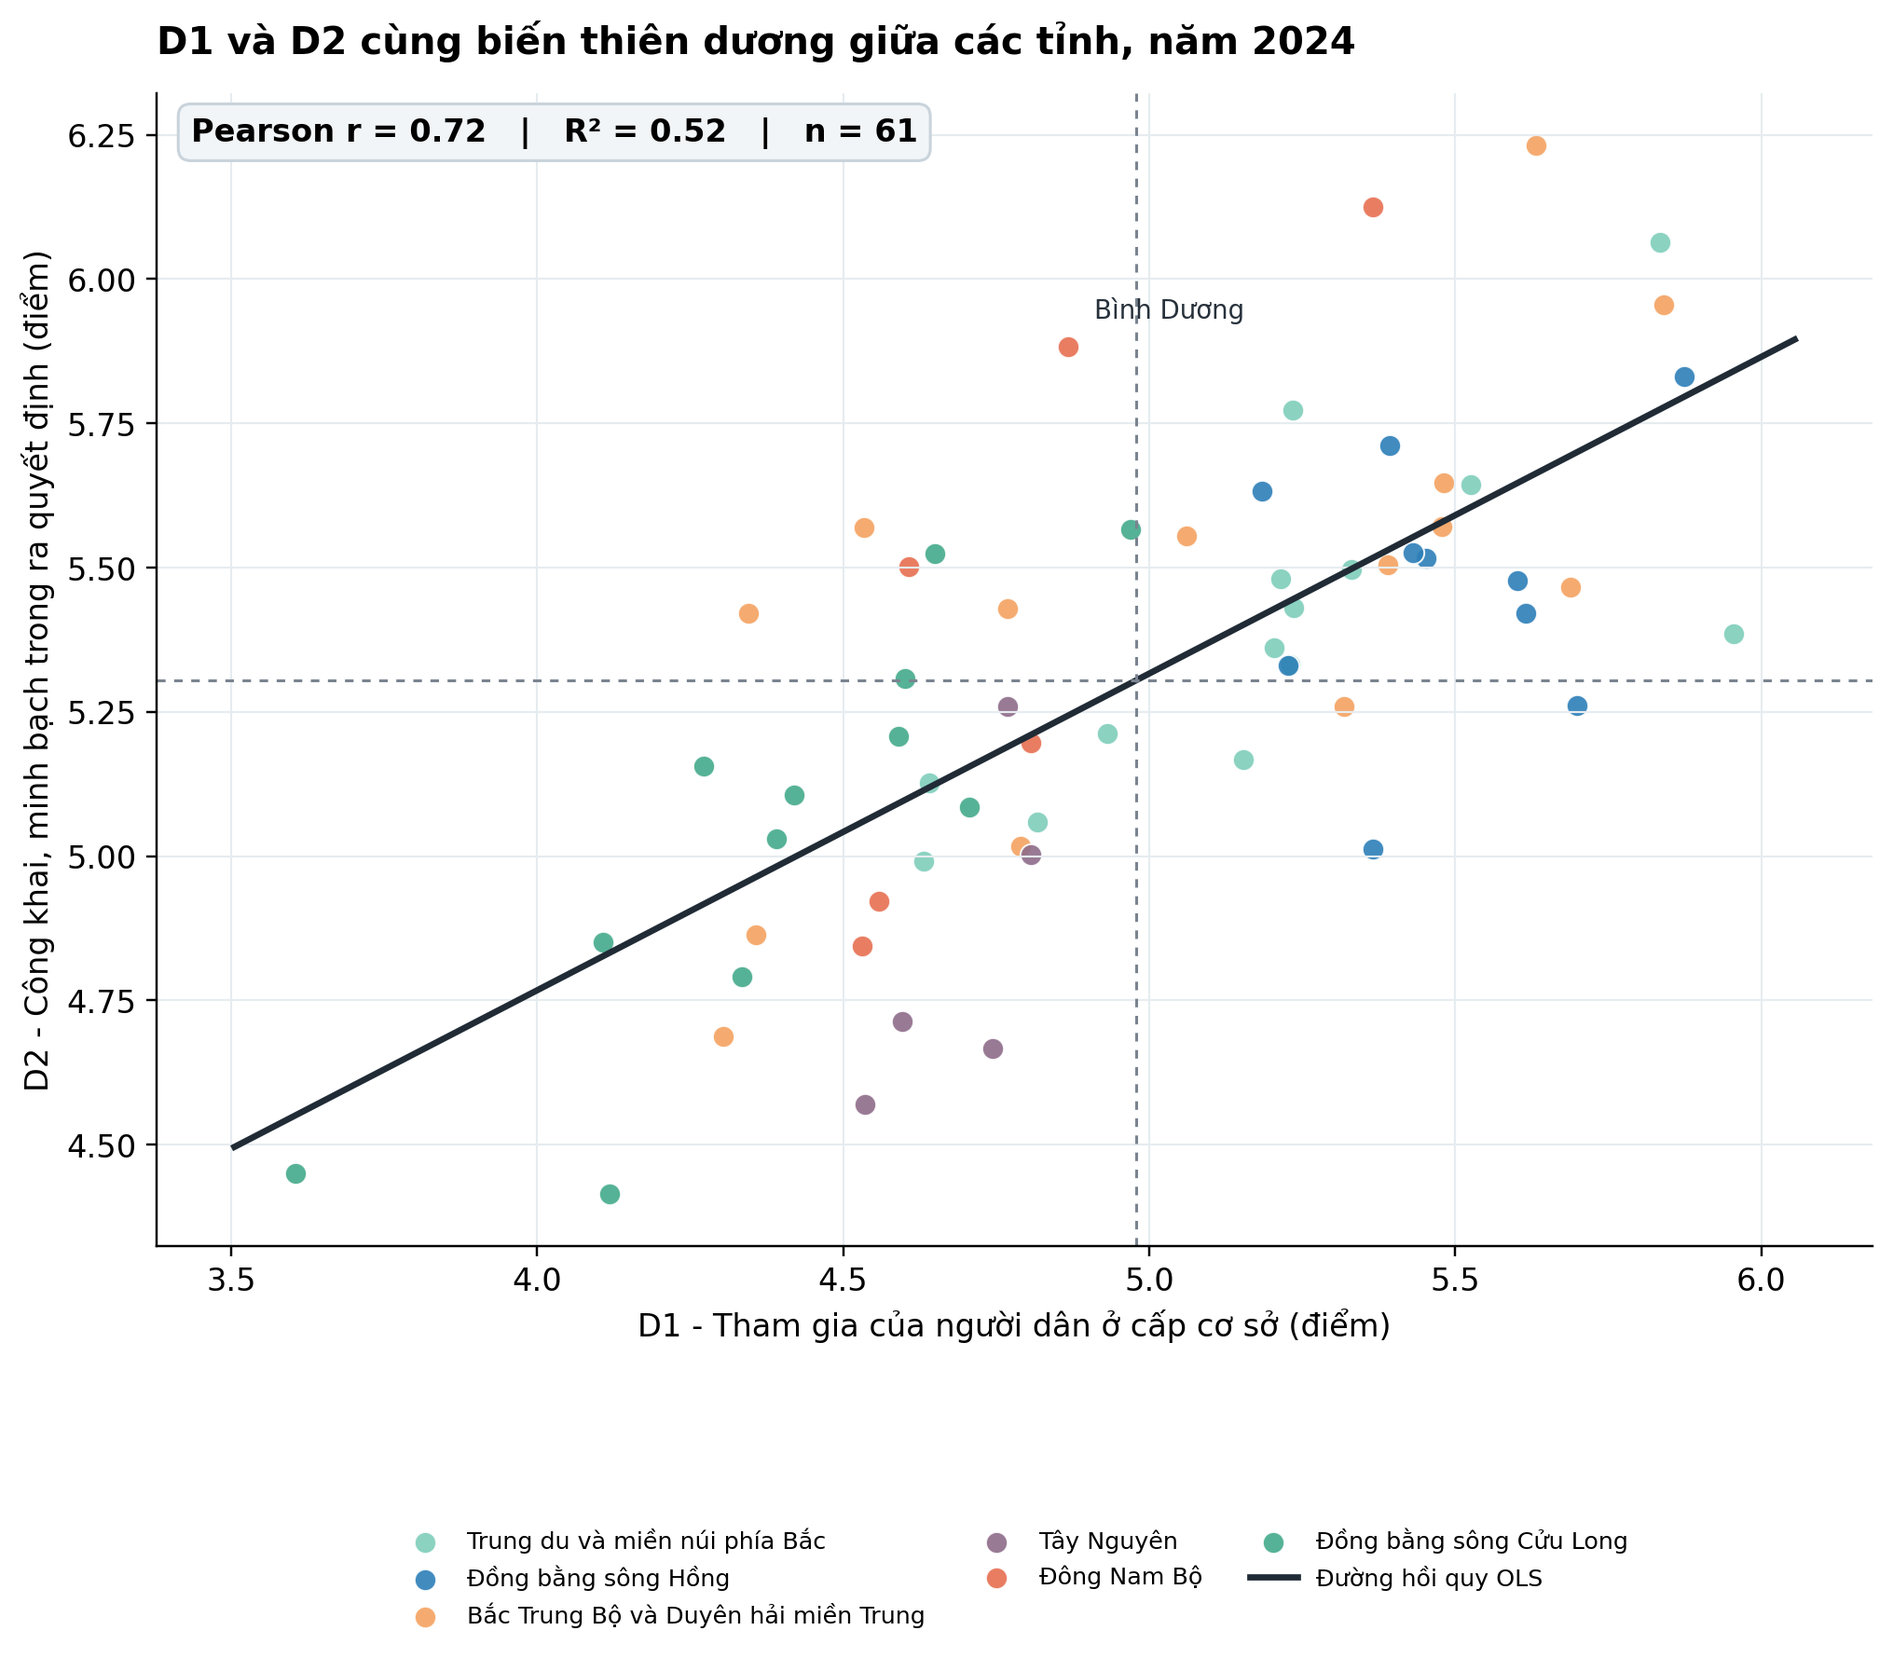
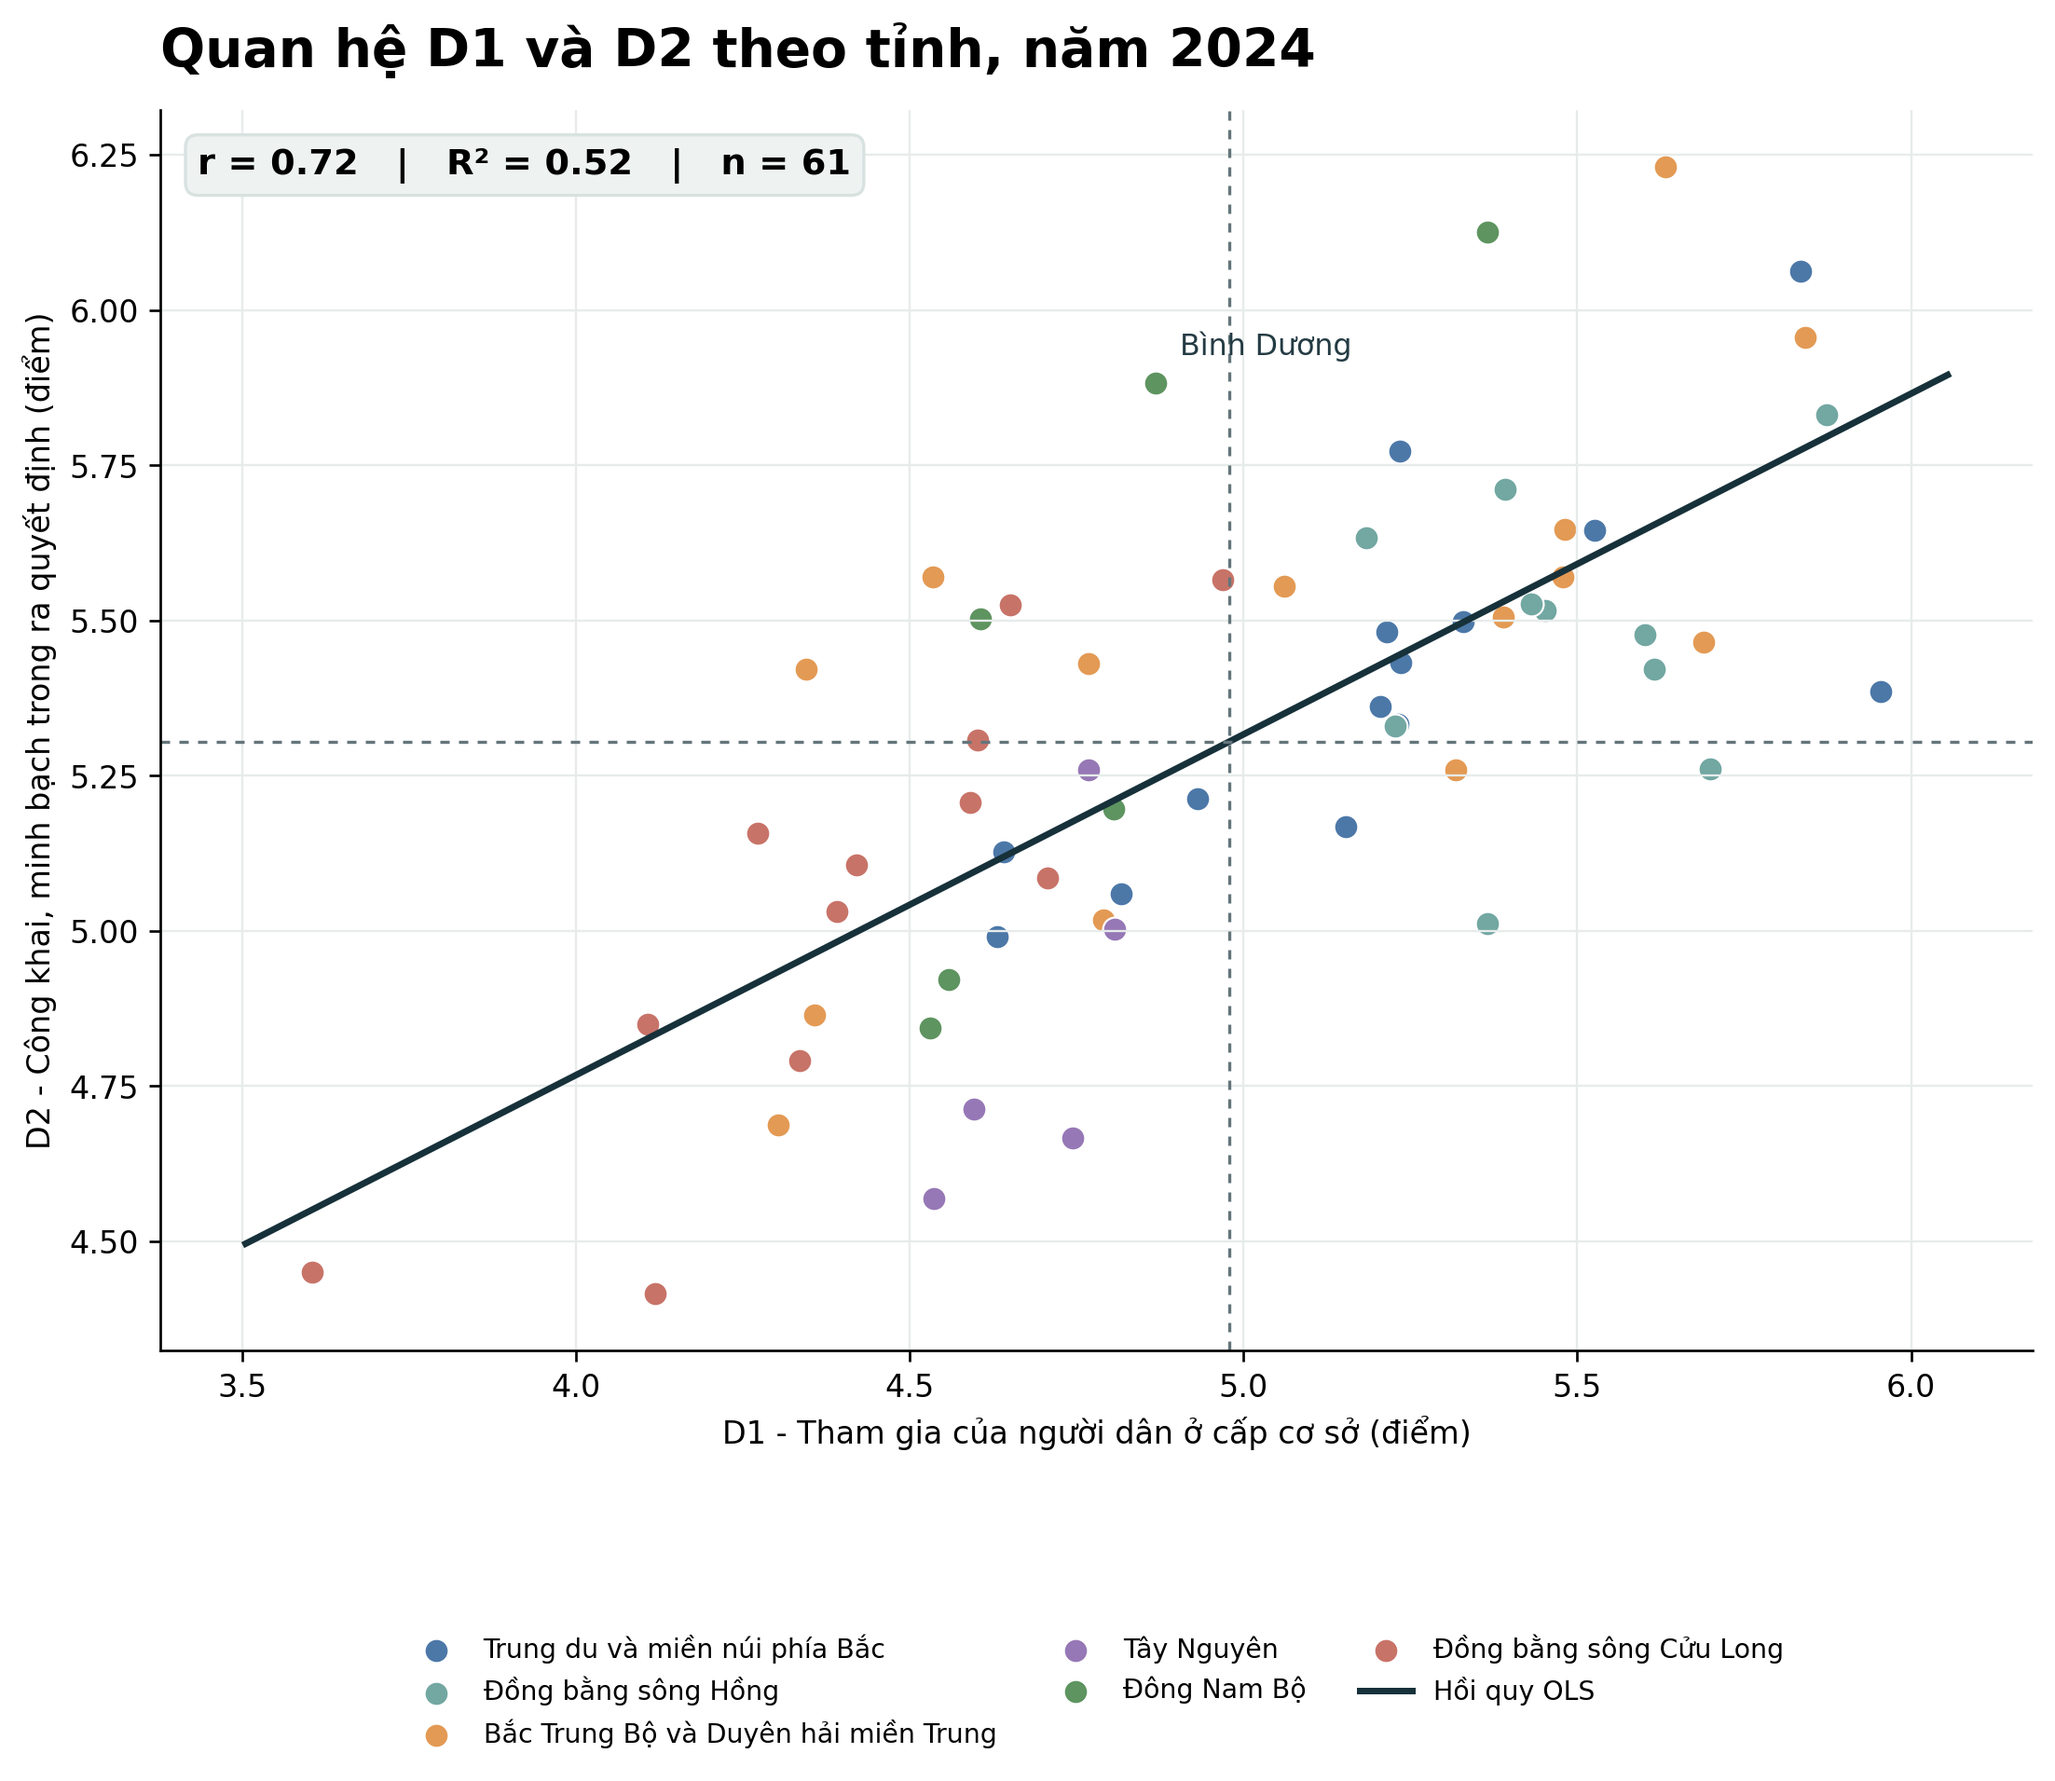
docs: align dimension analysis with report and slide standards

diff --git a/slides/content/7-dimension-relationships.tex b/slides/content/7-dimension-relationships.tex
@@ -4,34 +4,34 @@
     \begin{column}{0.49\textwidth}
       \begin{figure}
         \centering
-        \includegraphics[width=\textwidth,height=0.43\textheight,keepaspectratio]{dimension_relationships/dimension_correlation_heatmap_2024.png}
-        \caption*{Heatmap Pearson: toàn bộ cặp lĩnh vực D1--D8}
+        \includegraphics[width=\textwidth,height=0.43\textheight,keepaspectratio]{dimension_relationships/dimension_correlation_heatmap_2024_slide.png}
+        \caption*{Bản đồ nhiệt Pearson: toàn bộ cặp lĩnh vực D1\textendash D8}
       \end{figure}
       \scriptsize
       \begin{itemize}
         \setlength{\itemsep}{3pt}
-        \item[-] D1--D2 có $r=0{,}72$, lớn nhất trong 28 cặp lĩnh vực.
-        \item[-] Các ô đều dùng $n=61$ tỉnh hợp lệ trong snapshot năm 2024.
+        \item[-] D1\textendash D2 có $r=0{,}72$, lớn nhất trong 28 cặp lĩnh vực.
+        \item[-] Các ô đều dùng $n=61$ tỉnh hợp lệ trong mặt cắt năm 2024.
       \end{itemize}
     \end{column}
     \begin{column}{0.49\textwidth}
       \begin{figure}
         \centering
-        \includegraphics[width=\textwidth,height=0.43\textheight,keepaspectratio]{dimension_relationships/dimension_pair_scatter_2024.png}
-        \caption*{Scatter D1--D2: mỗi điểm là một tỉnh, màu theo vùng}
+        \includegraphics[width=\textwidth,height=0.43\textheight,keepaspectratio]{dimension_relationships/dimension_pair_scatter_2024_slide.png}
+        \caption*{Biểu đồ phân tán D1\textendash D2: mỗi điểm là một tỉnh, màu theo vùng}
       \end{figure}
       \scriptsize
       \begin{itemize}
         \setlength{\itemsep}{3pt}
-        \item[-] Hồi quy OLS cho $R^2=0{,}52$; xu hướng chung vẫn có độ phân tán giữa các tỉnh.
-        \item[-] 25 tỉnh ở phần tư cao--cao, 24 tỉnh ở phần tư thấp--thấp.
+        \item[-] Hồi quy bình phương tối thiểu cho $R^2=0{,}52$; xu hướng chung vẫn có độ phân tán giữa các tỉnh.
+        \item[-] 25 tỉnh ở phần tư cao\textendash cao, 24 tỉnh ở phần tư thấp\textendash thấp.
       \end{itemize}
     \end{column}
   \end{columns}
 
   \vspace{0.03cm}
   \centering
-  {\scriptsize \textbf{Cách đọc:} Pearson $r$ $\rightarrow$ hồi quy và $R^2$ $\rightarrow$ phần dư $\rightarrow$ trung bình $\pm$ SD. Các chỉ số chỉ mô tả liên hệ quan sát, không phải quan hệ nhân quả.}
+  {\scriptsize \textbf{Cách đọc:} Pearson $r$ $\rightarrow$ hồi quy và $R^2$ $\rightarrow$ phần dư $\rightarrow$ trung bình $\pm$ độ lệch chuẩn. Các chỉ số chỉ mô tả liên hệ quan sát, không phải quan hệ nhân quả.}
   \sourcefoot{PAPI Việt Nam 2024.}
 \end{frame}
 
@@ -41,7 +41,7 @@
     \begin{column}{0.49\textwidth}
       \begin{figure}
         \centering
-        \includegraphics[width=\textwidth,height=0.42\textheight,keepaspectratio]{dimension_relationships/dimension_residual_plot_2024.png}
+        \includegraphics[width=\textwidth,height=0.42\textheight,keepaspectratio]{dimension_relationships/dimension_residual_plot_2024_slide.png}
         \caption*{Phần dư D2 so với đường hồi quy từ D1}
       \end{figure}
       \scriptsize
@@ -54,20 +54,20 @@
     \begin{column}{0.49\textwidth}
       \begin{figure}
         \centering
-        \includegraphics[width=\textwidth,height=0.42\textheight,keepaspectratio]{dimension_relationships/dimension_variation_range_2024.png}
-        \caption*{Điểm trung bình $\pm$ một SD theo từng lĩnh vực}
+        \includegraphics[width=\textwidth,height=0.42\textheight,keepaspectratio]{dimension_relationships/dimension_variation_range_2024_slide.png}
+        \caption*{Điểm trung bình $\pm$ một độ lệch chuẩn theo từng lĩnh vực}
       \end{figure}
       \scriptsize
       \begin{itemize}
         \setlength{\itemsep}{3pt}
-        \item[-] D1 phân hóa mạnh nhất giữa các tỉnh (SD $=0{,}52$); D3 đồng đều nhất (SD $=0{,}16$).
-        \item[-] D6 có trung bình cao nhất ($7{,}60$); SD là mô tả phân tán, không phải khoảng tin cậy.
+        \item[-] D1 phân hóa mạnh nhất giữa các tỉnh (độ lệch chuẩn $=0{,}52$); D3 đồng đều nhất ($=0{,}16$).
+        \item[-] D6 có trung bình cao nhất ($7{,}60$); độ lệch chuẩn là mô tả phân tán, không phải khoảng tin cậy.
       \end{itemize}
     \end{column}
   \end{columns}
 
   \vspace{0.02cm}
   \centering
-  {\scriptsize \textbf{Định hướng:} dùng phần dư để chọn tỉnh cần đối chiếu hồ sơ lĩnh vực; dùng điểm trung bình cùng SD để nhận diện nơi có khác biệt giữa các tỉnh. Phần dư lớn không tự động là lỗi dữ liệu.}
+  {\scriptsize \textbf{Định hướng:} dùng phần dư để chọn tỉnh cần đối chiếu hồ sơ lĩnh vực; dùng điểm trung bình cùng độ lệch chuẩn để nhận diện nơi có khác biệt giữa các tỉnh. Phần dư lớn không tự động là lỗi dữ liệu.}
   \sourcefoot{PAPI Việt Nam 2024; $n=61$ tỉnh.}
 \end{frame}
